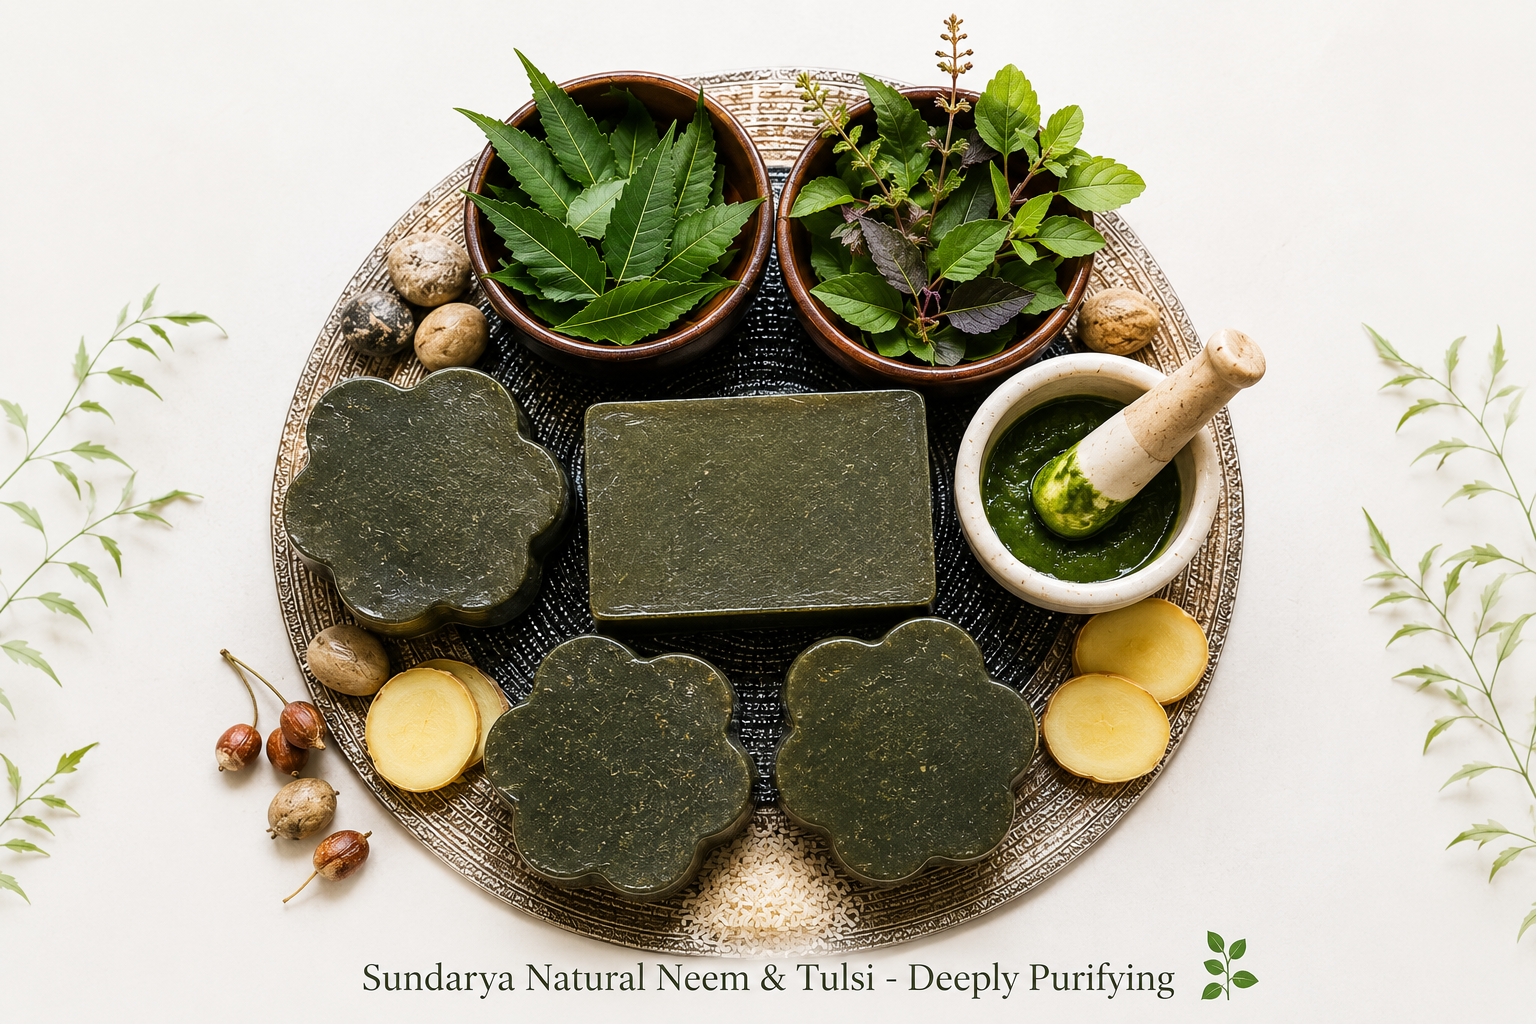
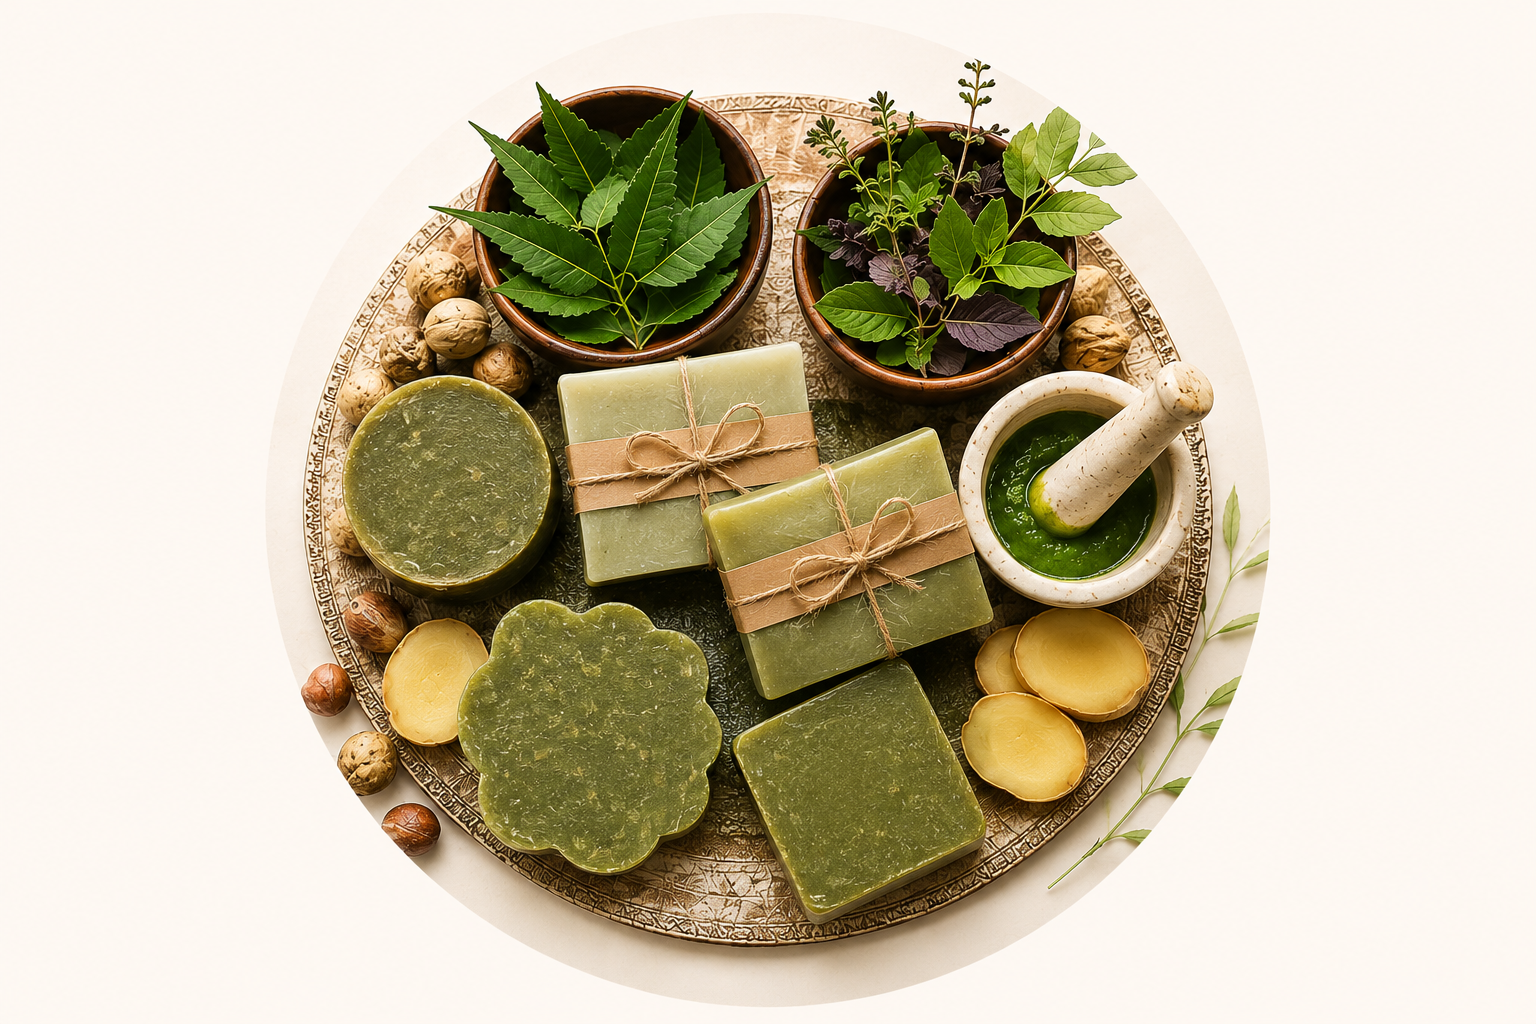
Updated site title

diff --git a/app/page.tsx b/app/page.tsx
@@ -717,10 +717,11 @@ export default function ManshaEnterprisesWebsite() {
 
                 <div className="absolute inset-0 flex items-center justify-center overflow-hidden rounded-full bg-gradient-to-br from-[#fffaf3] via-[#f9edd8] to-[#f4e0c4] shadow-2xl ring-1 ring-[#eadfce]">
                   <img
-                    src="/a_logo_for_mansha_enterprises_is_centered_within_a.png"
-                    alt="Mansha Enterprises"
-                    className="h-[72%] w-[72%] object-contain drop-shadow-xl"
-                  />
+  src="/front photo.png"
+  alt="Natural Handmade Soap"
+  className="h-full w-full object-cover scale-122"
+  style={{ objectPosition: "50% 40%" }}
+/>
                 </div>
 
                 <motion.div
